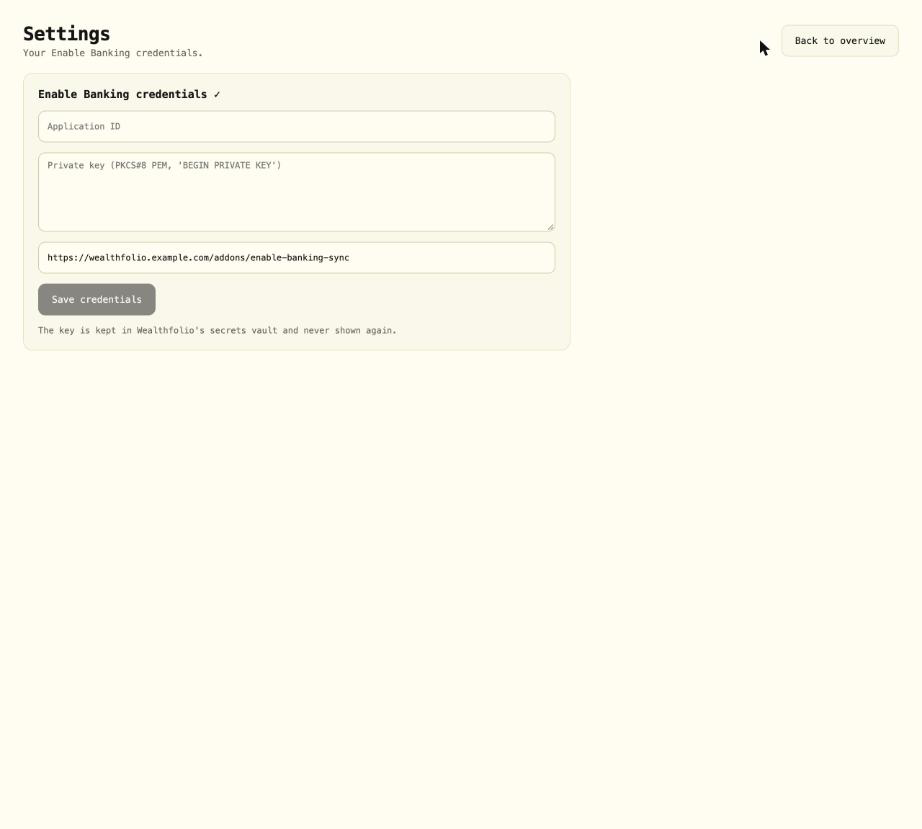
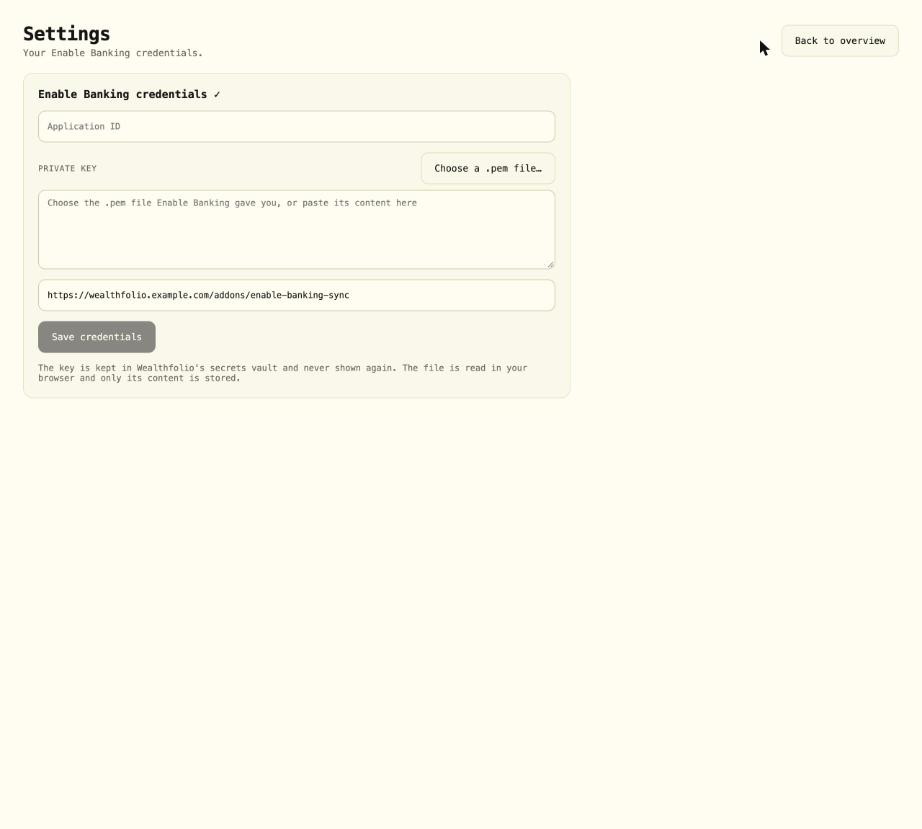
feat: accept the private key as a file or as pasted text
Settings gets a Choose a .pem file button next to the textarea. The key is validated as you type, a traditional RSA key is converted to PKCS#8 so Web Crypto can use it, and a certificate or an encrypted key is refused with a message that says why. Choosing the file also fills the application id from its name.

diff --git a/src/pages/SettingsView.tsx b/src/pages/SettingsView.tsx
@@ -1,10 +1,23 @@
 import { useState } from 'react';
 import type { BankSync } from '../hooks/useBankSync';
+import { Note } from '../components/ui';
+import { applicationIdFromFileName, normalizePrivateKey } from '../lib/pem';
 
 export function SettingsView({ app }: { app: BankSync }) {
   const [appId, setAppId] = useState('');
   const [privateKey, setPrivateKey] = useState('');
   const [redirect, setRedirect] = useState(app.redirectUrl);
+
+  const key = privateKey.trim() ? normalizePrivateKey(privateKey) : null;
+  const keyError = key && 'error' in key ? key.error : null;
+  const validKey = key && 'pem' in key ? key : null;
+
+  const readFile = async (file: File | undefined) => {
+    if (!file) return;
+    setPrivateKey(await file.text());
+    const id = applicationIdFromFileName(file.name);
+    if (id && !appId) setAppId(id);
+  };
 
   return (
     <>
@@ -26,12 +39,38 @@ export function SettingsView({ app }: { app: BankSync }) {
           value={appId}
           onChange={(e) => setAppId(e.target.value)}
         />
-        <textarea
-          className="ebs-textarea"
-          placeholder="Private key (PKCS#8 PEM, 'BEGIN PRIVATE KEY')"
-          value={privateKey}
-          onChange={(e) => setPrivateKey(e.target.value)}
-        />
+
+        <div className="ebs-col" style={{ gap: 8 }}>
+          <div className="ebs-row ebs-between">
+            <span className="ebs-label">Private key</span>
+            <label className="ebs-btn" style={{ cursor: 'pointer', display: 'inline-flex', alignItems: 'center' }}>
+              Choose a .pem file…
+              <input
+                type="file"
+                accept=".pem,.key,.txt,text/plain"
+                style={{ display: 'none' }}
+                onChange={(e) => {
+                  void readFile(e.target.files?.[0]);
+                  e.target.value = '';
+                }}
+              />
+            </label>
+          </div>
+          <textarea
+            className="ebs-textarea"
+            placeholder="Choose the .pem file Enable Banking gave you, or paste its content here"
+            value={privateKey}
+            onChange={(e) => setPrivateKey(e.target.value)}
+            spellCheck={false}
+          />
+          {keyError && <Note tone="bad">{keyError}</Note>}
+          {validKey && (
+            <Note tone="ok">
+              {validKey.converted ? 'Key is valid, converted from the RSA format.' : 'Key is valid.'}
+            </Note>
+          )}
+        </div>
+
         <input
           className="ebs-input"
           placeholder="Redirect URL registered at Enable Banking, e.g. https://wealthfolio.example.com/addons/enable-banking-sync"
@@ -41,16 +80,18 @@ export function SettingsView({ app }: { app: BankSync }) {
         <button
           className="ebs-btn ebs-btn-primary"
           style={{ alignSelf: 'flex-start' }}
-          disabled={!appId || !privateKey || !redirect}
+          disabled={!appId || !validKey || !redirect}
           onClick={async () => {
-            await app.saveCredentials(appId, privateKey, redirect);
+            if (!validKey) return;
+            await app.saveCredentials(appId, validKey.pem, redirect);
             setPrivateKey('');
           }}
         >
           Save credentials
         </button>
         <span className="ebs-muted ebs-small">
-          The key is kept in Wealthfolio's secrets vault and never shown again.
+          The key is kept in Wealthfolio's secrets vault and never shown again. The file is read in your browser and
+          only its content is stored.
         </span>
       </div>
     </>

diff --git a/src/lib/pem.test.ts b/src/lib/pem.test.ts
@@ -1,0 +1,85 @@
+import { generateKeyPairSync } from 'node:crypto';
+import { describe, expect, it } from 'vitest';
+import { applicationIdFromFileName, normalizePrivateKey } from './pem';
+
+const keys = generateKeyPairSync('rsa', { modulusLength: 2048 });
+const pkcs8 = keys.privateKey.export({ type: 'pkcs8', format: 'pem' }) as string;
+const pkcs1 = keys.privateKey.export({ type: 'pkcs1', format: 'pem' }) as string;
+
+const importable = async (pem: string) => {
+  const body = pem.replace(/-----[A-Z ]+-----|\s+/g, '');
+  const der = Uint8Array.from(atob(body), (c) => c.charCodeAt(0));
+  return crypto.subtle.importKey('pkcs8', der, { name: 'RSASSA-PKCS1-v1_5', hash: 'SHA-256' }, false, ['sign']);
+};
+
+describe('normalizePrivateKey', () => {
+  it('accepts a PKCS#8 key as is', () => {
+    const result = normalizePrivateKey(pkcs8);
+    expect(result).toEqual({ pem: pkcs8.trim(), converted: false });
+  });
+
+  it('tolerates surrounding whitespace and Windows line endings', () => {
+    const result = normalizePrivateKey(`\n  ${pkcs8.replace(/\n/g, '\r\n')}  \n`);
+    expect(result).toEqual({ pem: pkcs8.trim(), converted: false });
+  });
+
+  it('converts a PKCS#1 key to a PKCS#8 key that Web Crypto can import', async () => {
+    const result = normalizePrivateKey(pkcs1);
+    if ('error' in result) throw new Error(result.error);
+
+    expect(result.converted).toBe(true);
+    expect(result.pem.startsWith('-----BEGIN PRIVATE KEY-----')).toBe(true);
+    await expect(importable(result.pem)).resolves.toBeDefined();
+  });
+
+  it('produces a key that signs the same as the original', async () => {
+    const result = normalizePrivateKey(pkcs1);
+    if ('error' in result) throw new Error(result.error);
+    const data = new TextEncoder().encode('hello');
+    const sign = async (pem: string) =>
+      new Uint8Array(await crypto.subtle.sign('RSASSA-PKCS1-v1_5', await importable(pem), data));
+
+    expect(await sign(result.pem)).toEqual(await sign(pkcs8));
+  });
+
+  it('explains what is wrong with a certificate', () => {
+    expect(normalizePrivateKey('-----BEGIN CERTIFICATE-----\nAAAA\n-----END CERTIFICATE-----')).toEqual({
+      error: expect.stringMatching(/certificate.*private key/i),
+    });
+  });
+
+  it('refuses an encrypted key', () => {
+    expect(
+      normalizePrivateKey('-----BEGIN ENCRYPTED PRIVATE KEY-----\nAAAA\n-----END ENCRYPTED PRIVATE KEY-----'),
+    ).toEqual({
+      error: expect.stringMatching(/encrypted/i),
+    });
+  });
+
+  it('refuses anything else, and an empty value', () => {
+    expect(normalizePrivateKey('hello')).toEqual({ error: expect.stringMatching(/PEM/) });
+    expect(normalizePrivateKey('   ')).toEqual({ error: expect.stringMatching(/empty/i) });
+  });
+
+  it('refuses a key whose body is not base64', () => {
+    expect(normalizePrivateKey('-----BEGIN PRIVATE KEY-----\n!!!!\n-----END PRIVATE KEY-----')).toEqual({
+      error: expect.stringMatching(/PEM/),
+    });
+  });
+});
+
+describe('applicationIdFromFileName', () => {
+  it('reads the application id from the file Enable Banking downloads', () => {
+    expect(applicationIdFromFileName('aaaaaaaa-bbbb-cccc-dddd-eeeeeeeeeeee.pem')).toBe(
+      'aaaaaaaa-bbbb-cccc-dddd-eeeeeeeeeeee',
+    );
+  });
+
+  it('is case-insensitive about the extension and ignores other names', () => {
+    expect(applicationIdFromFileName('AAAAAAAA-BBBB-CCCC-DDDD-EEEEEEEEEEEE.PEM')).toBe(
+      'AAAAAAAA-BBBB-CCCC-DDDD-EEEEEEEEEEEE',
+    );
+    expect(applicationIdFromFileName('key.pem')).toBeNull();
+    expect(applicationIdFromFileName('private.key')).toBeNull();
+  });
+});

diff --git a/src/lib/pem.ts b/src/lib/pem.ts
@@ -1,0 +1,60 @@
+const KEY_BLOCK = /-----BEGIN (RSA )?PRIVATE KEY-----([\s\S]+?)-----END (?:RSA )?PRIVATE KEY-----/;
+const FILE_NAME = /^([0-9a-f]{8}-[0-9a-f]{4}-[0-9a-f]{4}-[0-9a-f]{4}-[0-9a-f]{12})\.pem$/i;
+const RSA_ALGORITHM = [0x30, 0x0d, 0x06, 0x09, 0x2a, 0x86, 0x48, 0x86, 0xf7, 0x0d, 0x01, 0x01, 0x01, 0x05, 0x00];
+const NOT_A_PEM = 'This is not a PEM private key. It should start with "-----BEGIN PRIVATE KEY-----".';
+
+export type NormalizedKey = { pem: string; converted: boolean } | { error: string };
+
+function derLength(length: number): number[] {
+  if (length < 0x80) return [length];
+  if (length < 0x100) return [0x81, length];
+  return [0x82, length >> 8, length & 0xff];
+}
+
+function der(tag: number, content: number[]): number[] {
+  return [tag, ...derLength(content.length), ...content];
+}
+
+function pkcs1ToPkcs8(pkcs1: Uint8Array): Uint8Array {
+  const version = [0x02, 0x01, 0x00];
+  return Uint8Array.from(der(0x30, [...version, ...RSA_ALGORITHM, ...der(0x04, [...pkcs1])]));
+}
+
+const toPem = (bytes: Uint8Array) =>
+  `-----BEGIN PRIVATE KEY-----\n${btoa(String.fromCharCode(...bytes))
+    .match(/.{1,64}/g)!
+    .join('\n')}\n-----END PRIVATE KEY-----`;
+
+/** Accepts PKCS#8 as is and converts a traditional RSA key, since Web Crypto only imports PKCS#8. */
+export function normalizePrivateKey(input: string): NormalizedKey {
+  const text = input.replace(/\r\n/g, '\n').trim();
+  if (!text) return { error: 'The private key is empty.' };
+  if (/BEGIN CERTIFICATE/.test(text)) {
+    return {
+      error:
+        'This is a certificate, not the private key. Use the .pem file downloaded when you registered the application.',
+    };
+  }
+  if (/ENCRYPTED/.test(text)) {
+    return { error: 'This key is encrypted with a passphrase. Remove the passphrase first, then use it here.' };
+  }
+
+  const match = KEY_BLOCK.exec(text);
+  if (!match) return { error: NOT_A_PEM };
+
+  const body = match[2].replace(/\s+/g, '');
+  let bytes: Uint8Array;
+  try {
+    if (!/^[A-Za-z0-9+/]+={0,2}$/.test(body)) throw new Error('not base64');
+    bytes = Uint8Array.from(atob(body), (c) => c.charCodeAt(0));
+  } catch {
+    return { error: NOT_A_PEM };
+  }
+
+  const isRsa = Boolean(match[1]);
+  return { pem: toPem(isRsa ? pkcs1ToPkcs8(bytes) : bytes), converted: isRsa };
+}
+
+export function applicationIdFromFileName(fileName: string): string | null {
+  return FILE_NAME.exec(fileName)?.[1] ?? null;
+}

diff --git a/src/components/ui.tsx b/src/components/ui.tsx
@@ -103,6 +103,6 @@ export function Modal({ label, onClose, children }: { label: string; onClose: ()
   );
 }
 
-export const Note = ({ tone, children }: { tone: 'ok' | 'warn' | 'info'; children: ReactNode }) => (
+export const Note = ({ tone, children }: { tone: 'ok' | 'warn' | 'info' | 'bad'; children: ReactNode }) => (
   <div className={`ebs-note ebs-${tone}`}>{children}</div>
 );

diff --git a/docs/enable-banking.md b/docs/enable-banking.md
@@ -31,16 +31,14 @@ Press **Register**. Your browser saves a file named after the application id, fo
 
 ## 3. Check the private key
 
-The addon signs its requests with Web Crypto, which only reads **PKCS#8** keys. Look at the first line of the file:
+Nothing to convert. The addon accepts the key as a **`.pem` file or as pasted text**, in either format:
 
-```sh
-head -1 aaaaaaaa-bbbb-cccc-dddd-eeeeeeeeeeee.pem
-```
+| First line                        | What happens                        |
+| --------------------------------- | ----------------------------------- |
+| `-----BEGIN PRIVATE KEY-----`     | Used as is.                         |
+| `-----BEGIN RSA PRIVATE KEY-----` | Converted for you when you save it. |
 
-| First line                        | What to do                                                                 |
-| --------------------------------- | -------------------------------------------------------------------------- |
-| `-----BEGIN PRIVATE KEY-----`     | Nothing, it is PKCS#8.                                                     |
-| `-----BEGIN RSA PRIVATE KEY-----` | Convert it: `openssl pkcs8 -topk8 -nocrypt -in key.pem -out key-pkcs8.pem` |
+Two things it will refuse, with a message that says why: a **certificate** (`BEGIN CERTIFICATE`), which is not the private key, and a key **encrypted with a passphrase**.
 
 ## 4. Whitelist the redirect URL
 
@@ -60,13 +58,13 @@ Open **Bank Sync → Settings** in Wealthfolio and fill in the credentials card:
 
 ![The settings screen with the credentials form](img/settings.png)
 
-| Field          | Value                                                                       |
-| -------------- | --------------------------------------------------------------------------- |
-| Application ID | The id from step 2                                                          |
-| Private key    | The whole content of the `.pem` file, including the `BEGIN` and `END` lines |
-| Redirect URL   | The URL from step 4, exactly as whitelisted                                 |
+| Field          | Value                                                                                     |
+| -------------- | ----------------------------------------------------------------------------------------- |
+| Application ID | The id from step 2                                                                        |
+| Private key    | Choose the `.pem` file, or paste its whole content, including the `BEGIN` and `END` lines |
+| Redirect URL   | The URL from step 4, exactly as whitelisted                                               |
 
-Press **Save credentials**. The key goes into Wealthfolio's secrets vault and is never shown again, which is why the form is empty afterwards and the title only gains a ✓.
+Choosing the file also fills the application id, because Enable Banking names the file after it. The form tells you whether the key is valid before you save. Press **Save credentials**. The key goes into Wealthfolio's secrets vault and is never shown again, which is why the form is empty afterwards and the title only gains a ✓.
 
 ## 6. Connect a bank
 
@@ -98,7 +96,8 @@ Open banking consents expire. The addon asks each bank for the longest consent i
 
 | What you see                                              | What it means                                                                                                         |
 | --------------------------------------------------------- | --------------------------------------------------------------------------------------------------------------------- |
-| `Private key must be a PKCS#8 PEM`                        | The key starts with `BEGIN RSA PRIVATE KEY`. Convert it, see [step 3](#3-check-the-private-key).                      |
+| `This is a certificate, not the private key`              | You picked the wrong file. Use the `.pem` downloaded when you registered the application.                             |
+| `This key is encrypted with a passphrase`                 | Remove the passphrase from the key first, then use it here.                                                           |
 | `Enable Banking credentials are not configured`           | Application id or key is missing. Save them in Settings.                                                              |
 | `... failed (401)`                                        | The id and the key do not match, or the key was regenerated. Use the id that matches the `.pem` file name.            |
 | The bank page says the redirect URL is not allowed        | The redirect URL in the addon is not exactly one of the whitelisted URLs, including the scheme and the trailing path. |
